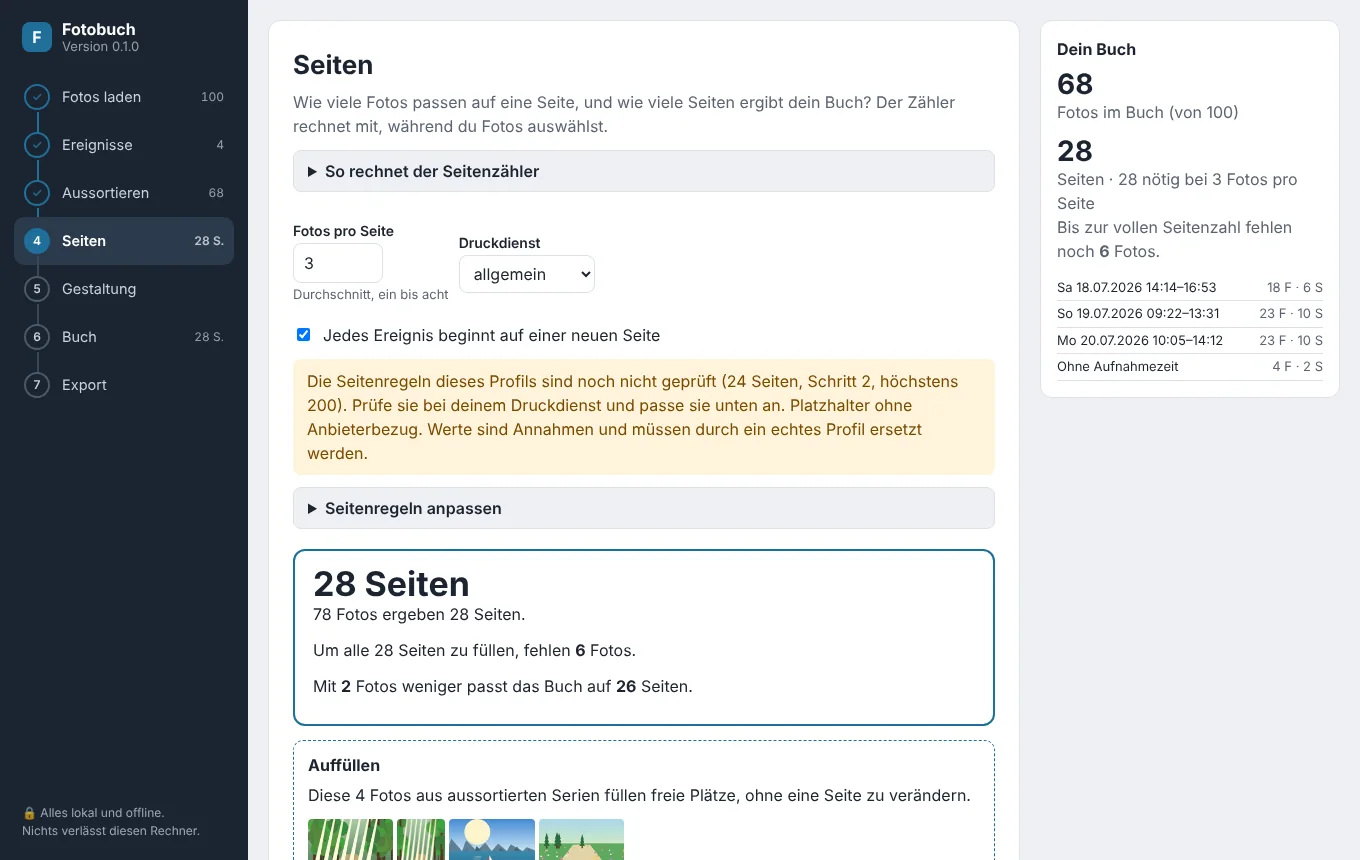
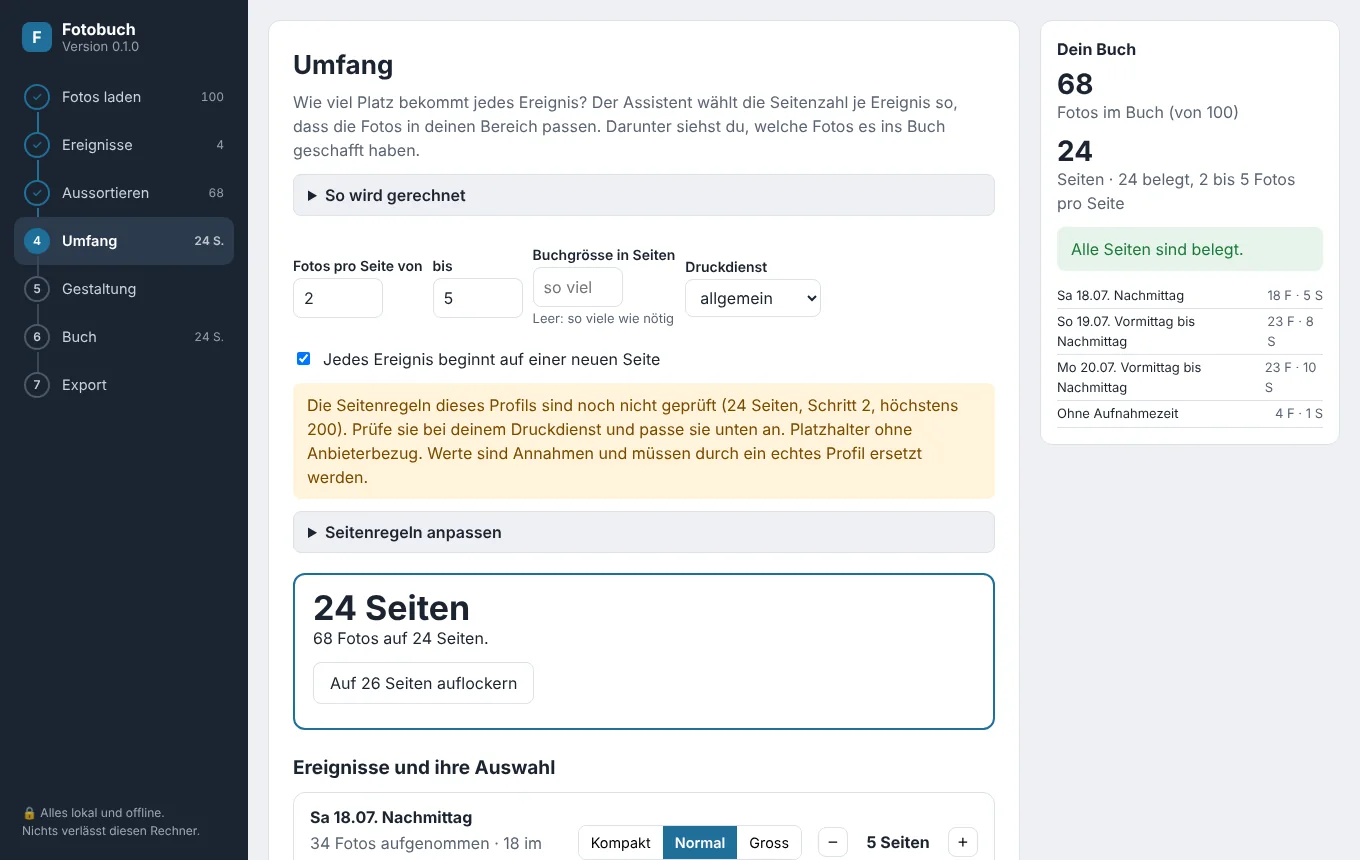
Webseite: neue Texte und Bilder für Ereignisse, Aussortieren, Umfang und Seitenband
Claude-Session: https://claude.ai/code/session_01PMFyn4G7KU7JESdGgm4syY

diff --git a/website/de/index.html b/website/de/index.html
@@ -14,16 +14,16 @@
 <div class="heldbild"><div class="rahmen"><img src="../img/buch.webp" alt="" width="1360" height="860" fetchpriority="high"></div>
 <img class="schweber s1" src="../img/buch-leinen-deckblatt.webp" alt="" width="1000" height="750"><img class="schweber s2" src="../img/buch-nacht-deckblatt.webp" alt="" width="1000" height="750"></div></div></section>
 <section class="streifen"><ul class="breit"><li>100 % offline</li><li>Originale bleiben unberührt</li><li>Kein Konto, kein Upload</li><li>Windows · Mac · Linux</li><li>Quellcode öffentlich</li></ul></section>
-<section id="funktionen" class="block"><div class="breit"><h2>Was die App kann</h2><p class="lead">Die Vorarbeit für ein Fotobuch ist mühsam. Der Assistent übernimmt sie und lässt dir die Auswahl.</p><div class="raster"><article class="karte"><div class="ico" aria-hidden="true">🗓</div><h3>Ereignisse nach Zeit und Ort</h3><p>Aus Aufnahmezeit und GPS bildet die App Tage, Ausflüge und Anlässe. Du benennst, teilst oder legst sie zusammen.</p></article><article class="karte"><div class="ico" aria-hidden="true">🧹</div><h3>Doppelte und Serien erkennen</h3><p>Exakte Kopien und fast gleiche Fotos werden zusammengefasst. Vorgeschlagen wird das schärfste, beste Bild.</p></article><article class="karte"><div class="ico" aria-hidden="true">📱</div><h3>Screenshots und Chat-Kopien raus</h3><p>Bildschirmfotos und Messenger-Kopien landen gar nicht erst im Buch. Du kannst jede Entscheidung ändern.</p></article><article class="karte"><div class="ico" aria-hidden="true">🔢</div><h3>Der Seitenzähler rechnet mit</h3><p>Wie viele Fotos pro Seite? Wie viele Seiten ergibt das? Die App zeigt live, wie viele Fotos bis zur nächsten vollen Seitenzahl fehlen.</p></article><article class="karte"><div class="ico" aria-hidden="true">🧩</div><h3>Layouts pro Seite</h3><p>Hoch- und Querformate werden passend gemischt. Für jede Seite wählst du eine Vorlage, auch randlos über die ganze Seite.</p></article><article class="karte"><div class="ico" aria-hidden="true">🌄</div><h3>Panoramen über die Doppelseite</h3><p>Sehr breite Fotos laufen über beide Seiten oder bekommen eine eigene. Die Seitenzahl bleibt dabei stimmig.</p></article><article class="karte"><div class="ico" aria-hidden="true">🎨</div><h3>Sechs Gestaltungsthemen</h3><p>Deckblatt, Hintergrund, Rahmen und Schrift passen zusammen. Titel und Untertitel ergänzt die App aus Datum und Ereignis.</p></article><article class="karte"><div class="ico" aria-hidden="true">🖨</div><h3>Fertige Seiten für den Druck</h3><p>Export als JPEG und PDF in 300 dpi, dazu eine Seitenliste. Fotos von iPhone (HEIC) und Kamera werden gelesen.</p></article></div></div></section>
+<section id="funktionen" class="block"><div class="breit"><h2>Was die App kann</h2><p class="lead">Die Vorarbeit für ein Fotobuch ist mühsam. Der Assistent übernimmt sie und lässt dir die Auswahl.</p><div class="raster"><article class="karte"><div class="ico" aria-hidden="true">🗓</div><h3>Ereignisse nach Zeit und Ort</h3><p>Aus Aufnahmezeit und GPS bildet die App Tage, Ausflüge und Anlässe. Du benennst, teilst oder legst sie zusammen.</p></article><article class="karte"><div class="ico" aria-hidden="true">🧹</div><h3>Doppelte und Serien erkennen</h3><p>Exakte Kopien und fast gleiche Fotos werden zusammengefasst. Vorgeschlagen wird das schärfste, beste Bild.</p></article><article class="karte"><div class="ico" aria-hidden="true">📱</div><h3>Screenshots und Chat-Kopien raus</h3><p>Bildschirmfotos und Messenger-Kopien landen gar nicht erst im Buch. Du kannst jede Entscheidung ändern.</p></article><article class="karte"><div class="ico" aria-hidden="true">🔢</div><h3>Der Seitenzähler rechnet mit</h3><p>Du gibst einen Bereich vor, zum Beispiel 2 bis 5 Fotos pro Seite. Kleine Ereignisse bekommen eine Seite, grosse mehrere, wenn möglich eine Doppelseite. Der Zähler zeigt live die Seitenzahl.</p></article><article class="karte"><div class="ico" aria-hidden="true">🧩</div><h3>Layouts pro Seite</h3><p>Hoch- und Querformate werden passend gemischt. Für jede Seite wählst du eine Vorlage, auch randlos über die ganze Seite.</p></article><article class="karte"><div class="ico" aria-hidden="true">🌄</div><h3>Panoramen über die Doppelseite</h3><p>Sehr breite Fotos laufen über beide Seiten oder bekommen eine eigene. Die Seitenzahl bleibt dabei stimmig.</p></article><article class="karte"><div class="ico" aria-hidden="true">🎨</div><h3>Sechs Gestaltungsthemen</h3><p>Deckblatt, Hintergrund, Rahmen und Schrift passen zusammen. Titel und Untertitel ergänzt die App aus Datum und Ereignis.</p></article><article class="karte"><div class="ico" aria-hidden="true">🖨</div><h3>Fertige Seiten für den Druck</h3><p>Export als JPEG und PDF in 300 dpi, dazu eine Seitenliste. Fotos von iPhone (HEIC) und Kamera werden gelesen.</p></article></div></div></section>
 <section id="ablauf" class="block getoent"><div class="breit"><h2>Schritt für Schritt zum Album</h2><p class="lead">Sieben geführte Schritte. Du kannst jederzeit zurück, und alles, was du entschieden hast, bleibt gespeichert.</p><ol class="schritte"><li class="schritt"><div class="text"><span class="nr">1</span><h3>Fotos laden</h3><p>Ordner wählen, fertig. Die App liest Aufnahmezeit, Ort und Format direkt aus den Dateien. Deine Originale werden nur gelesen, nie verändert.</p></div>
-      <figure class="rahmen"><img src="../img/start.webp" alt="Fotos laden" loading="lazy" width="1360" height="860"></figure></li><li class="schritt"><div class="text"><span class="nr">2</span><h3>Ereignisse prüfen</h3><p>Die App teilt die Reise nach Pausen und Orten in Ereignisse. Benenne sie, lege sie zusammen oder teile sie, wo du willst.</p></div>
-      <figure class="rahmen"><img src="../img/ereignisse.webp" alt="Ereignisse prüfen" loading="lazy" width="1360" height="860"></figure></li><li class="schritt"><div class="text"><span class="nr">3</span><h3>Aussortieren</h3><p>Serien und Doppelte sind schon zusammengefasst, das beste Foto ist vorgewählt. Du tauschst oder entfernst mit einem Klick.</p></div>
-      <figure class="rahmen"><img src="../img/aussortieren.webp" alt="Aussortieren" loading="lazy" width="1360" height="860"></figure></li><li class="schritt"><div class="text"><span class="nr">4</span><h3>Seiten planen</h3><p>Fotos pro Seite einstellen, der Zähler zeigt die Seitenzahl. Fehlen ein paar Fotos zur vollen Seitenzahl, füllt die App aus aussortierten Serien auf.</p></div>
-      <figure class="rahmen"><img src="../img/seiten.webp" alt="Seiten planen" loading="lazy" width="1360" height="860"></figure></li><li class="schritt"><div class="text"><span class="nr">5</span><h3>Gestalten</h3><p>Ein Thema wählen, Titel eintragen, Titelfoto bestimmen. Die Vorschau zeigt Deckblatt und die ersten Seiten sofort.</p></div>
-      <figure class="rahmen"><img src="../img/gestaltung.webp" alt="Gestalten" loading="lazy" width="1360" height="860"></figure></li><li class="schritt"><div class="text"><span class="nr">6</span><h3>Buch durchblättern</h3><p>Doppelseite für Doppelseite wie im gedruckten Buch. Layouts wechseln, Fotos verschieben, Panoramen über die Seiten legen.</p></div>
+      <figure class="rahmen"><img src="../img/start.webp" alt="Fotos laden" loading="lazy" width="1360" height="860"></figure></li><li class="schritt"><div class="text"><span class="nr">2</span><h3>Ereignisse prüfen</h3><p>Die App teilt die Reise nach Pausen und Orten in Ereignisse. Mit dem Regler stellst du die Feinheit ein, auf der Zeitleiste teilst und verbindest du Ereignisse. Jedes Ereignis zeigt, welche Fotos ins Buch kommen.</p></div>
+      <figure class="rahmen"><img src="../img/ereignisse.webp" alt="Ereignisse prüfen" loading="lazy" width="1360" height="860"></figure></li><li class="schritt"><div class="text"><span class="nr">3</span><h3>Aussortieren</h3><p>Serien und Doppelte sind schon zusammengefasst, das beste Foto ist vorgewählt. Das Serienband zeigt alle Serien mit Fortschritt, Balken für Schärfe und Auflösung begründen den Vorschlag.</p></div>
+      <figure class="rahmen"><img src="../img/aussortieren.webp" alt="Aussortieren" loading="lazy" width="1360" height="860"></figure></li><li class="schritt"><div class="text"><span class="nr">4</span><h3>Umfang festlegen</h3><p>Bereich pro Seite und Dichte je Ereignis wählen oder eine Seitenzahl vorgeben. Die Galerie je Ereignis zeigt, welche Fotos es ins Buch geschafft haben, und lässt dich ändern.</p></div>
+      <figure class="rahmen"><img src="../img/seiten.webp" alt="Umfang festlegen" loading="lazy" width="1360" height="860"></figure></li><li class="schritt"><div class="text"><span class="nr">5</span><h3>Gestalten</h3><p>Ein Thema wählen, Titel eintragen, Titelfoto bestimmen. Die Vorschau zeigt Deckblatt und die ersten Seiten sofort.</p></div>
+      <figure class="rahmen"><img src="../img/gestaltung.webp" alt="Gestalten" loading="lazy" width="1360" height="860"></figure></li><li class="schritt"><div class="text"><span class="nr">6</span><h3>Buch durchblättern</h3><p>Doppelseite für Doppelseite wie im gedruckten Buch. Das Seitenband zeigt alle Seiten: verschieben, leere Seiten einfügen, Seiten oder ganze Ereignisse umstellen.</p></div>
       <figure class="rahmen"><img src="../img/buch.webp" alt="Buch durchblättern" loading="lazy" width="1360" height="860"></figure></li><li class="schritt"><div class="text"><span class="nr">7</span><h3>Exportieren</h3><p>Ein Klick erzeugt fertige Seiten als JPEG und PDF plus Seitenliste. Fotos hochladen oder Seiten direkt weitergeben.</p></div>
       <figure class="rahmen"><img src="../img/export.webp" alt="Exportieren" loading="lazy" width="1360" height="860"></figure></li></ol>
-<h3 class="zwischen">Im Buch: volle Kontrolle</h3><div class="raster4"><figure class="klein"><div class="rahmen"><img src="../img/layouts.webp" alt="Layout wählen" loading="lazy"></div><figcaption><b>Layout wählen</b> Pro Seite eine Vorlage, von drei Fotos bis randlos.</figcaption></figure><figure class="klein"><div class="rahmen"><img src="../img/panorama.webp" alt="Panorama" loading="lazy"></div><figcaption><b>Panorama</b> Breite Bilder über die ganze Doppelseite.</figcaption></figure><figure class="klein"><div class="rahmen"><img src="../img/detail.webp" alt="Foto im Detail" loading="lazy"></div><figcaption><b>Foto im Detail</b> Gross ansehen, verschieben oder entfernen.</figcaption></figure><figure class="klein"><div class="rahmen"><img src="../img/uebersicht.webp" alt="Übersicht" loading="lazy"></div><figcaption><b>Übersicht</b> Alle Seiten auf einen Blick.</figcaption></figure></div></div></section>
+<h3 class="zwischen">Im Buch: volle Kontrolle</h3><div class="raster4"><figure class="klein"><div class="rahmen"><img src="../img/layouts.webp" alt="Layout wählen" loading="lazy"></div><figcaption><b>Layout wählen</b> Pro Seite eine Vorlage, von drei Fotos bis randlos.</figcaption></figure><figure class="klein"><div class="rahmen"><img src="../img/panorama.webp" alt="Panorama" loading="lazy"></div><figcaption><b>Panorama</b> Breite Bilder über die ganze Doppelseite.</figcaption></figure><figure class="klein"><div class="rahmen"><img src="../img/detail.webp" alt="Foto im Detail" loading="lazy"></div><figcaption><b>Foto im Detail</b> Gross ansehen, verschieben oder entfernen.</figcaption></figure><figure class="klein"><div class="rahmen"><img src="../img/uebersicht.webp" alt="Übersicht" loading="lazy"></div><figcaption><b>Übersicht</b> Alle Seiten auf einen Blick.</figcaption></figure><figure class="klein"><div class="rahmen"><img src="../img/seitenband.webp" alt="Seitenband" loading="lazy"></div><figcaption><b>Seitenband</b> Seiten ziehen, leere Seiten einfügen, Ereignisse umstellen.</figcaption></figure></div></div></section>
 <section id="themen" class="block"><div class="breit"><h2>Sechs Themen, ein Klick</h2><p class="lead">Das sind echte Seiten aus der App, mit dem Demo-Album «Sommer am Lago Maggiore». Deckblatt und zwei Innenseiten.</p><div class="tabs" role="tablist"><button role="tab" data-t="klar" aria-selected="false">Klar</button><button role="tab" data-t="leinen" aria-selected="true">Leinen</button><button role="tab" data-t="nacht" aria-selected="false">Nacht</button><button role="tab" data-t="kraft" aria-selected="false">Kraft</button><button role="tab" data-t="meer" aria-selected="false">Meer</button><button role="tab" data-t="galerie" aria-selected="false">Galerie</button></div><div class="themabuehne"><div class="themapanel" data-t="klar" hidden><img src="../img/buch-klar-deckblatt.webp" alt="Klar" loading="lazy" width="1000" height="750"><img src="../img/buch-klar-seite-a.webp" alt="Klar" loading="lazy" width="1000" height="750"><img src="../img/buch-klar-seite-b.webp" alt="Klar" loading="lazy" width="1000" height="750"></div><div class="themapanel" data-t="leinen"><img src="../img/buch-leinen-deckblatt.webp" alt="Leinen" loading="lazy" width="1000" height="750"><img src="../img/buch-leinen-seite-a.webp" alt="Leinen" loading="lazy" width="1000" height="750"><img src="../img/buch-leinen-seite-b.webp" alt="Leinen" loading="lazy" width="1000" height="750"></div><div class="themapanel" data-t="nacht" hidden><img src="../img/buch-nacht-deckblatt.webp" alt="Nacht" loading="lazy" width="1000" height="750"><img src="../img/buch-nacht-seite-a.webp" alt="Nacht" loading="lazy" width="1000" height="750"><img src="../img/buch-nacht-seite-b.webp" alt="Nacht" loading="lazy" width="1000" height="750"></div><div class="themapanel" data-t="kraft" hidden><img src="../img/buch-kraft-deckblatt.webp" alt="Kraft" loading="lazy" width="1000" height="750"><img src="../img/buch-kraft-seite-a.webp" alt="Kraft" loading="lazy" width="1000" height="750"><img src="../img/buch-kraft-seite-b.webp" alt="Kraft" loading="lazy" width="1000" height="750"></div><div class="themapanel" data-t="meer" hidden><img src="../img/buch-meer-deckblatt.webp" alt="Meer" loading="lazy" width="1000" height="750"><img src="../img/buch-meer-seite-a.webp" alt="Meer" loading="lazy" width="1000" height="750"><img src="../img/buch-meer-seite-b.webp" alt="Meer" loading="lazy" width="1000" height="750"></div><div class="themapanel" data-t="galerie" hidden><img src="../img/buch-galerie-deckblatt.webp" alt="Galerie" loading="lazy" width="1000" height="750"><img src="../img/buch-galerie-seite-a.webp" alt="Galerie" loading="lazy" width="1000" height="750"><img src="../img/buch-galerie-seite-b.webp" alt="Galerie" loading="lazy" width="1000" height="750"></div></div></div></section>
 <section id="download" class="block getoent"><div class="breit"><h2>Herunterladen</h2><p class="lead">Kostenlos, portabel und ohne Installation. Entpacken oder starten, fertig.</p><div class="dlraster"><article class="dlkarte" id="dl-windows"><h3>Windows</h3><p class="sys">Windows 10 und 11, 64 Bit</p>
       <a class="knopf" href="https://github.com/goerks/fotobuch-assistent/releases/latest/download/Fotobuch-Assistent-windows.exe" download>Herunterladen (.exe)</a><ul><li>Datei herunterladen und doppelklicken.</li><li>Meldet Windows «Der Computer wurde geschützt», klicke «Weitere Informationen» und «Trotzdem ausführen». Die App ist noch nicht signiert.</li></ul></article><article class="dlkarte" id="dl-mac"><h3>Mac</h3><p class="sys">macOS, Apple Silicon (M1 und neuer)</p>

diff --git a/website/en/index.html b/website/en/index.html
@@ -14,16 +14,16 @@
 <div class="heldbild"><div class="rahmen"><img src="../img/buch.webp" alt="" width="1360" height="860" fetchpriority="high"></div>
 <img class="schweber s1" src="../img/buch-leinen-deckblatt.webp" alt="" width="1000" height="750"><img class="schweber s2" src="../img/buch-nacht-deckblatt.webp" alt="" width="1000" height="750"></div></div></section>
 <section class="streifen"><ul class="breit"><li>100% offline</li><li>Originals stay untouched</li><li>No account, no upload</li><li>Windows · Mac · Linux</li><li>Source code public</li></ul></section>
-<section id="funktionen" class="block"><div class="breit"><h2>What the app does</h2><p class="lead">Preparing a photo book is tedious. The assistant does the groundwork and leaves the choices to you.</p><div class="raster"><article class="karte"><div class="ico" aria-hidden="true">🗓</div><h3>Events by time and place</h3><p>From capture time and GPS the app forms days, outings and occasions. You rename, split or merge them.</p></article><article class="karte"><div class="ico" aria-hidden="true">🧹</div><h3>Spots duplicates and bursts</h3><p>Exact copies and near-identical shots are grouped. The sharpest, best picture is suggested.</p></article><article class="karte"><div class="ico" aria-hidden="true">📱</div><h3>Screenshots and chat copies out</h3><p>Screenshots and messenger copies never reach the book. Every decision can be changed.</p></article><article class="karte"><div class="ico" aria-hidden="true">🔢</div><h3>A page counter that does the math</h3><p>How many photos per page? How many pages does that make? Live, the app shows how many photos are missing to the next full page count.</p></article><article class="karte"><div class="ico" aria-hidden="true">🧩</div><h3>Layouts per page</h3><p>Portrait and landscape photos are mixed to fit. Pick a template per page, including full-bleed.</p></article><article class="karte"><div class="ico" aria-hidden="true">🌄</div><h3>Panoramas across the spread</h3><p>Very wide photos span both pages or get a page of their own. The page count stays consistent.</p></article><article class="karte"><div class="ico" aria-hidden="true">🎨</div><h3>Six design themes</h3><p>Cover, background, frames and typeface match. Title and subtitle are filled in from date and event.</p></article><article class="karte"><div class="ico" aria-hidden="true">🖨</div><h3>Print-ready pages</h3><p>Export as JPEG and PDF at 300 dpi, plus a page list. Reads photos from iPhone (HEIC) and cameras.</p></article></div></div></section>
+<section id="funktionen" class="block"><div class="breit"><h2>What the app does</h2><p class="lead">Preparing a photo book is tedious. The assistant does the groundwork and leaves the choices to you.</p><div class="raster"><article class="karte"><div class="ico" aria-hidden="true">🗓</div><h3>Events by time and place</h3><p>From capture time and GPS the app forms days, outings and occasions. You rename, split or merge them.</p></article><article class="karte"><div class="ico" aria-hidden="true">🧹</div><h3>Spots duplicates and bursts</h3><p>Exact copies and near-identical shots are grouped. The sharpest, best picture is suggested.</p></article><article class="karte"><div class="ico" aria-hidden="true">📱</div><h3>Screenshots and chat copies out</h3><p>Screenshots and messenger copies never reach the book. Every decision can be changed.</p></article><article class="karte"><div class="ico" aria-hidden="true">🔢</div><h3>A page counter that does the math</h3><p>You set a range, for example 2 to 5 photos per page. Small events get one page, big ones several, ideally a spread. The counter shows the page count live.</p></article><article class="karte"><div class="ico" aria-hidden="true">🧩</div><h3>Layouts per page</h3><p>Portrait and landscape photos are mixed to fit. Pick a template per page, including full-bleed.</p></article><article class="karte"><div class="ico" aria-hidden="true">🌄</div><h3>Panoramas across the spread</h3><p>Very wide photos span both pages or get a page of their own. The page count stays consistent.</p></article><article class="karte"><div class="ico" aria-hidden="true">🎨</div><h3>Six design themes</h3><p>Cover, background, frames and typeface match. Title and subtitle are filled in from date and event.</p></article><article class="karte"><div class="ico" aria-hidden="true">🖨</div><h3>Print-ready pages</h3><p>Export as JPEG and PDF at 300 dpi, plus a page list. Reads photos from iPhone (HEIC) and cameras.</p></article></div></div></section>
 <section id="ablauf" class="block getoent"><div class="breit"><h2>Step by step to your album</h2><p class="lead">Seven guided steps. Go back any time; everything you decided is saved.</p><ol class="schritte"><li class="schritt"><div class="text"><span class="nr">1</span><h3>Load photos</h3><p>Pick a folder, done. The app reads capture time, place and format straight from the files. Your originals are only read, never changed.</p></div>
-      <figure class="rahmen"><img src="../img/start.webp" alt="Load photos" loading="lazy" width="1360" height="860"></figure></li><li class="schritt"><div class="text"><span class="nr">2</span><h3>Check events</h3><p>The app splits the trip into events by gaps and places. Rename them, merge them or split them wherever you like.</p></div>
-      <figure class="rahmen"><img src="../img/ereignisse.webp" alt="Check events" loading="lazy" width="1360" height="860"></figure></li><li class="schritt"><div class="text"><span class="nr">3</span><h3>Cull</h3><p>Bursts and duplicates are already grouped and the best photo is preselected. Swap or remove with one click.</p></div>
-      <figure class="rahmen"><img src="../img/aussortieren.webp" alt="Cull" loading="lazy" width="1360" height="860"></figure></li><li class="schritt"><div class="text"><span class="nr">4</span><h3>Plan pages</h3><p>Set photos per page and the counter shows the page count. If a few photos are missing to a full count, the app fills up from culled bursts.</p></div>
-      <figure class="rahmen"><img src="../img/seiten.webp" alt="Plan pages" loading="lazy" width="1360" height="860"></figure></li><li class="schritt"><div class="text"><span class="nr">5</span><h3>Design</h3><p>Choose a theme, enter a title, pick the cover photo. The preview shows the cover and first pages right away.</p></div>
-      <figure class="rahmen"><img src="../img/gestaltung.webp" alt="Design" loading="lazy" width="1360" height="860"></figure></li><li class="schritt"><div class="text"><span class="nr">6</span><h3>Flip through the book</h3><p>Spread by spread, like the printed book. Change layouts, move photos, run panoramas across pages.</p></div>
+      <figure class="rahmen"><img src="../img/start.webp" alt="Load photos" loading="lazy" width="1360" height="860"></figure></li><li class="schritt"><div class="text"><span class="nr">2</span><h3>Check events</h3><p>The app splits the trip into events by gaps and places. A slider sets the granularity and the timeline lets you split and merge events. Each event shows which photos make it into the book.</p></div>
+      <figure class="rahmen"><img src="../img/ereignisse.webp" alt="Check events" loading="lazy" width="1360" height="860"></figure></li><li class="schritt"><div class="text"><span class="nr">3</span><h3>Cull</h3><p>Bursts and duplicates are already grouped and the best photo is preselected. A burst strip shows all series with progress, and bars for sharpness and resolution explain the suggestion.</p></div>
+      <figure class="rahmen"><img src="../img/aussortieren.webp" alt="Cull" loading="lazy" width="1360" height="860"></figure></li><li class="schritt"><div class="text"><span class="nr">4</span><h3>Set the scope</h3><p>Choose a range per page and a density per event, or set a page count. A gallery per event shows which photos made it into the book and lets you override.</p></div>
+      <figure class="rahmen"><img src="../img/seiten.webp" alt="Set the scope" loading="lazy" width="1360" height="860"></figure></li><li class="schritt"><div class="text"><span class="nr">5</span><h3>Design</h3><p>Choose a theme, enter a title, pick the cover photo. The preview shows the cover and first pages right away.</p></div>
+      <figure class="rahmen"><img src="../img/gestaltung.webp" alt="Design" loading="lazy" width="1360" height="860"></figure></li><li class="schritt"><div class="text"><span class="nr">6</span><h3>Flip through the book</h3><p>Spread by spread, like the printed book. The page strip shows every page: move them, insert blank pages, reorder pages or whole events.</p></div>
       <figure class="rahmen"><img src="../img/buch.webp" alt="Flip through the book" loading="lazy" width="1360" height="860"></figure></li><li class="schritt"><div class="text"><span class="nr">7</span><h3>Export</h3><p>One click makes finished pages as JPEG and PDF plus a page list. Upload the photos or hand over the pages.</p></div>
       <figure class="rahmen"><img src="../img/export.webp" alt="Export" loading="lazy" width="1360" height="860"></figure></li></ol>
-<h3 class="zwischen">In the book: full control</h3><div class="raster4"><figure class="klein"><div class="rahmen"><img src="../img/layouts.webp" alt="Choose a layout" loading="lazy"></div><figcaption><b>Choose a layout</b> One template per page, from three photos to full-bleed.</figcaption></figure><figure class="klein"><div class="rahmen"><img src="../img/panorama.webp" alt="Panorama" loading="lazy"></div><figcaption><b>Panorama</b> Wide pictures across the whole spread.</figcaption></figure><figure class="klein"><div class="rahmen"><img src="../img/detail.webp" alt="Photo detail" loading="lazy"></div><figcaption><b>Photo detail</b> View large, move or remove.</figcaption></figure><figure class="klein"><div class="rahmen"><img src="../img/uebersicht.webp" alt="Overview" loading="lazy"></div><figcaption><b>Overview</b> All pages at a glance.</figcaption></figure></div></div></section>
+<h3 class="zwischen">In the book: full control</h3><div class="raster4"><figure class="klein"><div class="rahmen"><img src="../img/layouts.webp" alt="Choose a layout" loading="lazy"></div><figcaption><b>Choose a layout</b> One template per page, from three photos to full-bleed.</figcaption></figure><figure class="klein"><div class="rahmen"><img src="../img/panorama.webp" alt="Panorama" loading="lazy"></div><figcaption><b>Panorama</b> Wide pictures across the whole spread.</figcaption></figure><figure class="klein"><div class="rahmen"><img src="../img/detail.webp" alt="Photo detail" loading="lazy"></div><figcaption><b>Photo detail</b> View large, move or remove.</figcaption></figure><figure class="klein"><div class="rahmen"><img src="../img/uebersicht.webp" alt="Overview" loading="lazy"></div><figcaption><b>Overview</b> All pages at a glance.</figcaption></figure><figure class="klein"><div class="rahmen"><img src="../img/seitenband.webp" alt="Page strip" loading="lazy"></div><figcaption><b>Page strip</b> Drag pages, insert blank ones, reorder events.</figcaption></figure></div></div></section>
 <section id="themen" class="block"><div class="breit"><h2>Six themes, one click</h2><p class="lead">These are real pages from the app, using the demo album “Summer at Lake Maggiore”. Cover and two inner pages.</p><div class="tabs" role="tablist"><button role="tab" data-t="klar" aria-selected="false">Clear</button><button role="tab" data-t="leinen" aria-selected="true">Linen</button><button role="tab" data-t="nacht" aria-selected="false">Night</button><button role="tab" data-t="kraft" aria-selected="false">Kraft</button><button role="tab" data-t="meer" aria-selected="false">Sea</button><button role="tab" data-t="galerie" aria-selected="false">Gallery</button></div><div class="themabuehne"><div class="themapanel" data-t="klar" hidden><img src="../img/buch-klar-deckblatt.webp" alt="Clear" loading="lazy" width="1000" height="750"><img src="../img/buch-klar-seite-a.webp" alt="Clear" loading="lazy" width="1000" height="750"><img src="../img/buch-klar-seite-b.webp" alt="Clear" loading="lazy" width="1000" height="750"></div><div class="themapanel" data-t="leinen"><img src="../img/buch-leinen-deckblatt.webp" alt="Linen" loading="lazy" width="1000" height="750"><img src="../img/buch-leinen-seite-a.webp" alt="Linen" loading="lazy" width="1000" height="750"><img src="../img/buch-leinen-seite-b.webp" alt="Linen" loading="lazy" width="1000" height="750"></div><div class="themapanel" data-t="nacht" hidden><img src="../img/buch-nacht-deckblatt.webp" alt="Night" loading="lazy" width="1000" height="750"><img src="../img/buch-nacht-seite-a.webp" alt="Night" loading="lazy" width="1000" height="750"><img src="../img/buch-nacht-seite-b.webp" alt="Night" loading="lazy" width="1000" height="750"></div><div class="themapanel" data-t="kraft" hidden><img src="../img/buch-kraft-deckblatt.webp" alt="Kraft" loading="lazy" width="1000" height="750"><img src="../img/buch-kraft-seite-a.webp" alt="Kraft" loading="lazy" width="1000" height="750"><img src="../img/buch-kraft-seite-b.webp" alt="Kraft" loading="lazy" width="1000" height="750"></div><div class="themapanel" data-t="meer" hidden><img src="../img/buch-meer-deckblatt.webp" alt="Sea" loading="lazy" width="1000" height="750"><img src="../img/buch-meer-seite-a.webp" alt="Sea" loading="lazy" width="1000" height="750"><img src="../img/buch-meer-seite-b.webp" alt="Sea" loading="lazy" width="1000" height="750"></div><div class="themapanel" data-t="galerie" hidden><img src="../img/buch-galerie-deckblatt.webp" alt="Gallery" loading="lazy" width="1000" height="750"><img src="../img/buch-galerie-seite-a.webp" alt="Gallery" loading="lazy" width="1000" height="750"><img src="../img/buch-galerie-seite-b.webp" alt="Gallery" loading="lazy" width="1000" height="750"></div></div></div></section>
 <section id="download" class="block getoent"><div class="breit"><h2>Download</h2><p class="lead">Free, portable, no installation. Unpack or launch, done.</p><div class="dlraster"><article class="dlkarte" id="dl-windows"><h3>Windows</h3><p class="sys">Windows 10 and 11, 64-bit</p>
       <a class="knopf" href="https://github.com/goerks/fotobuch-assistent/releases/latest/download/Fotobuch-Assistent-windows.exe" download>Download (.exe)</a><ul><li>Download the file and double-click it.</li><li>If Windows shows “protected your PC”, click “More info” and “Run anyway”. The app is not signed yet.</li></ul></article><article class="dlkarte" id="dl-mac"><h3>Mac</h3><p class="sys">macOS, Apple silicon (M1 and newer)</p>
